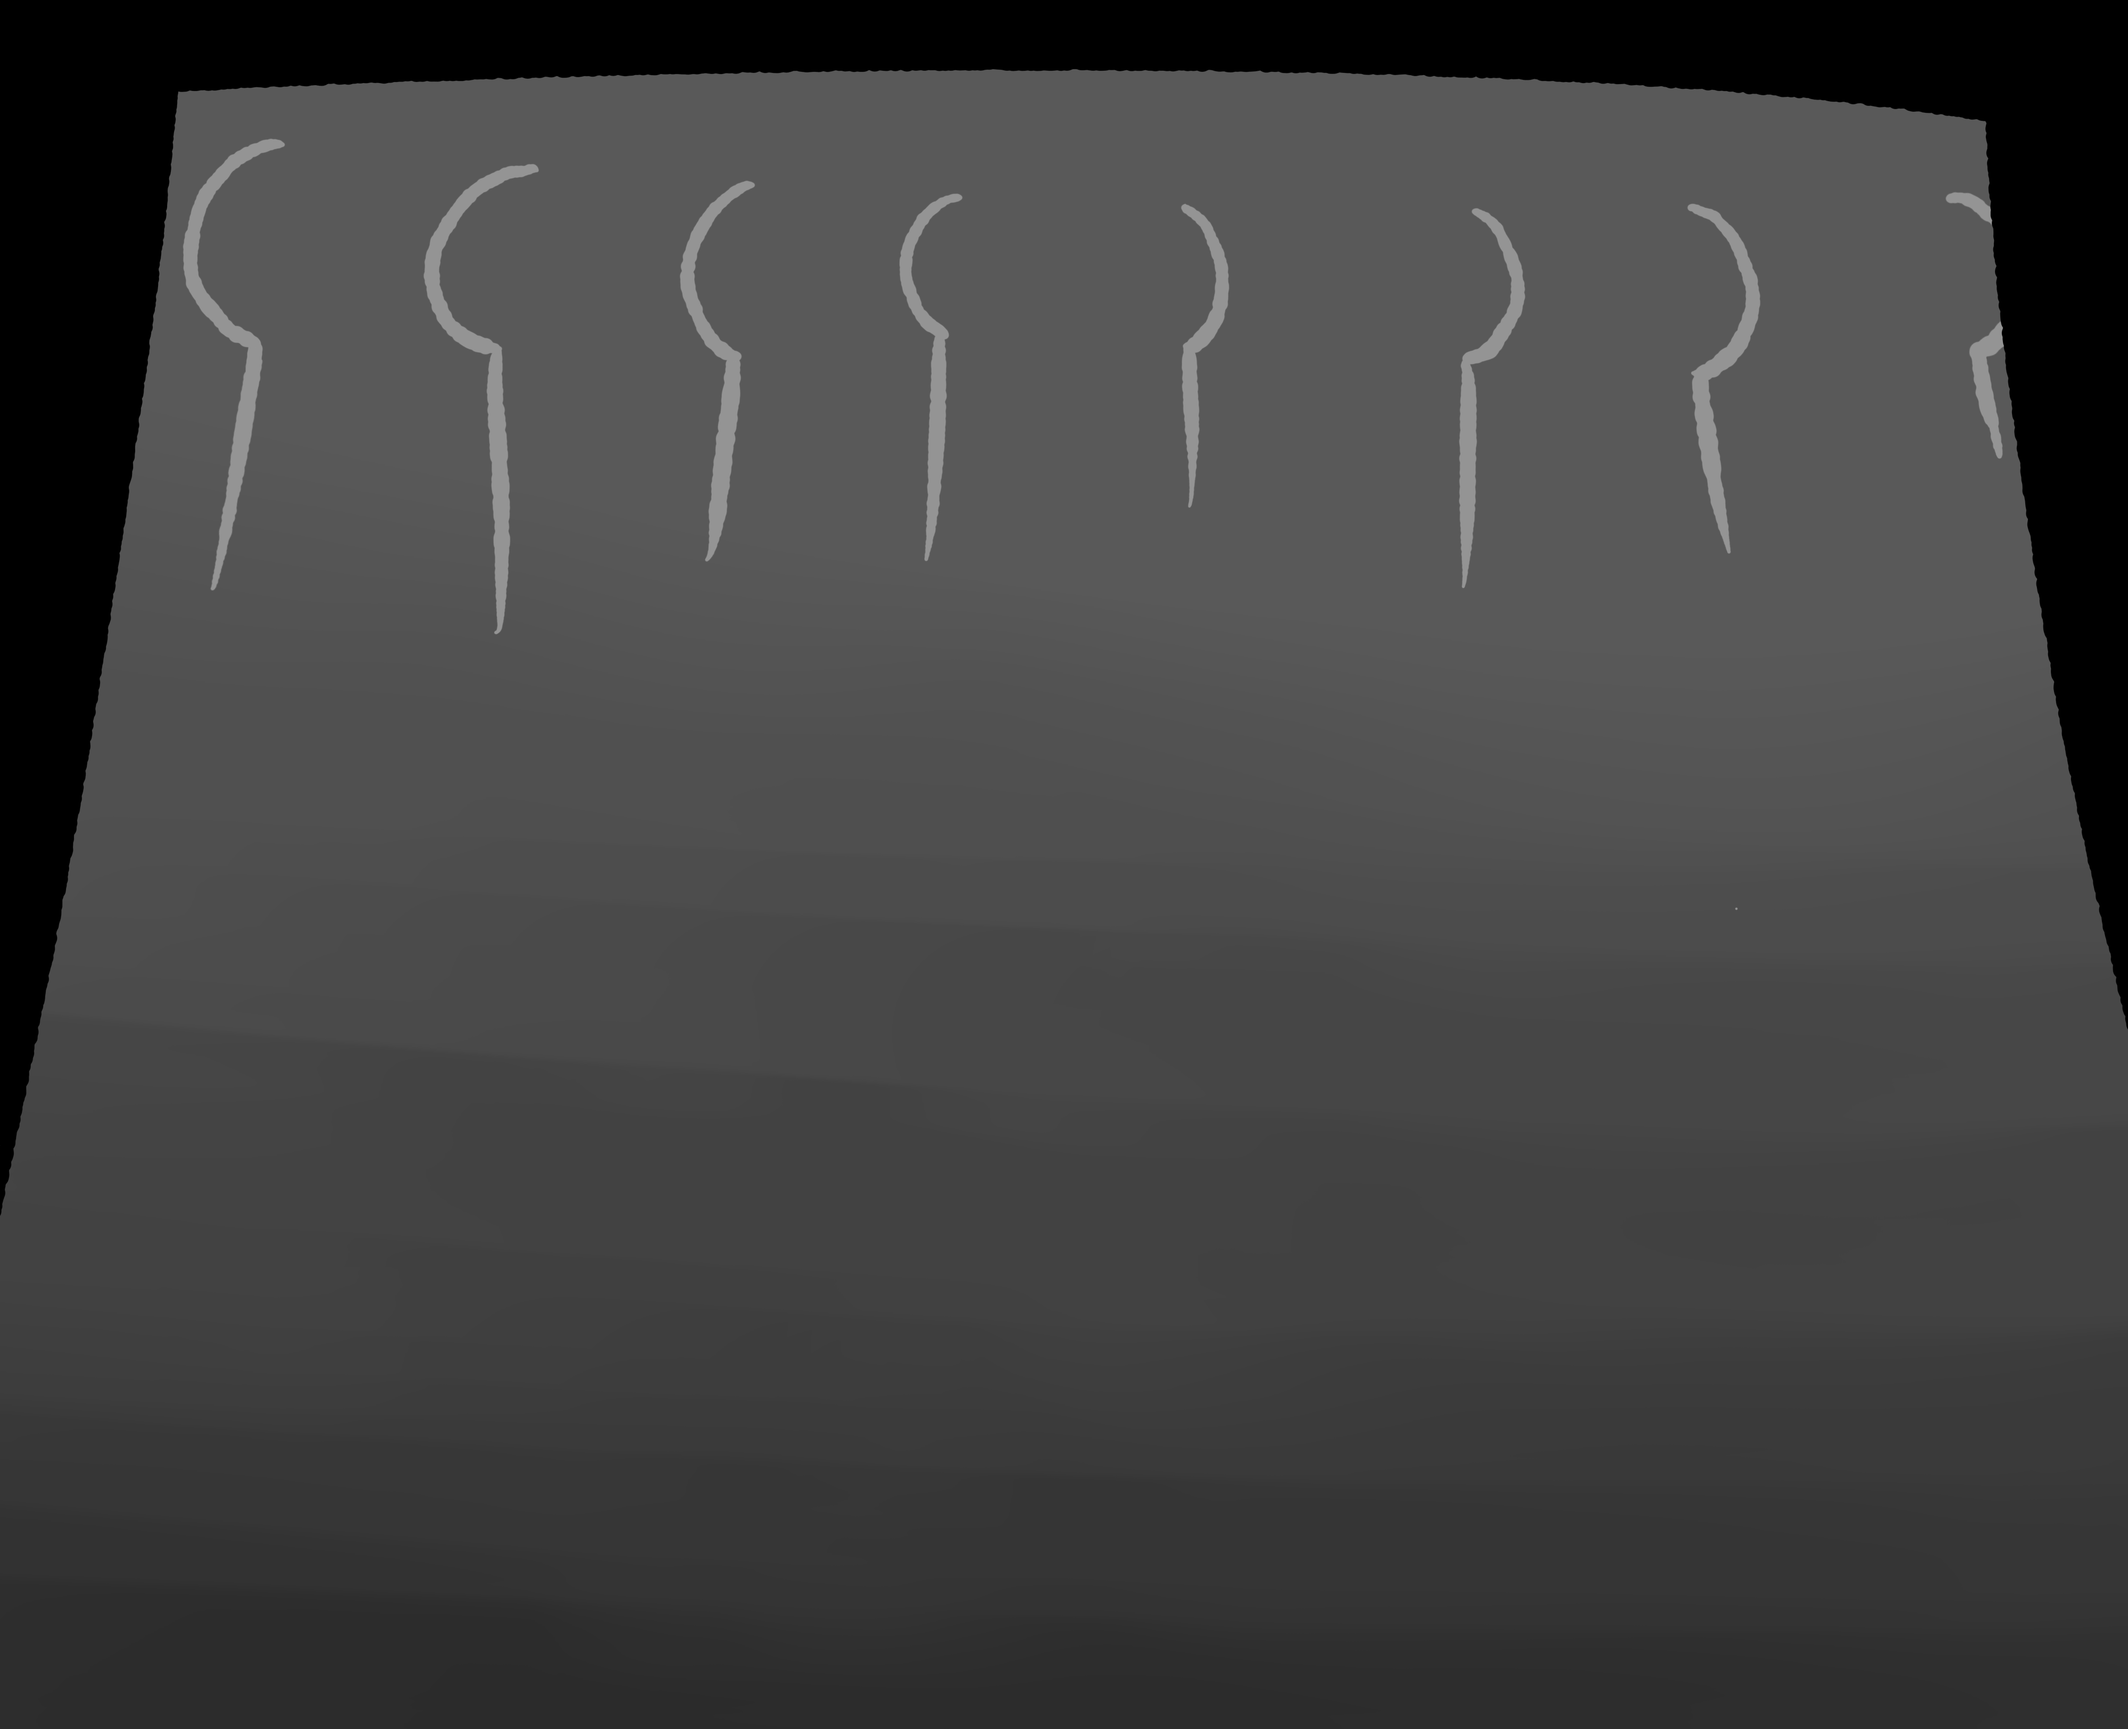
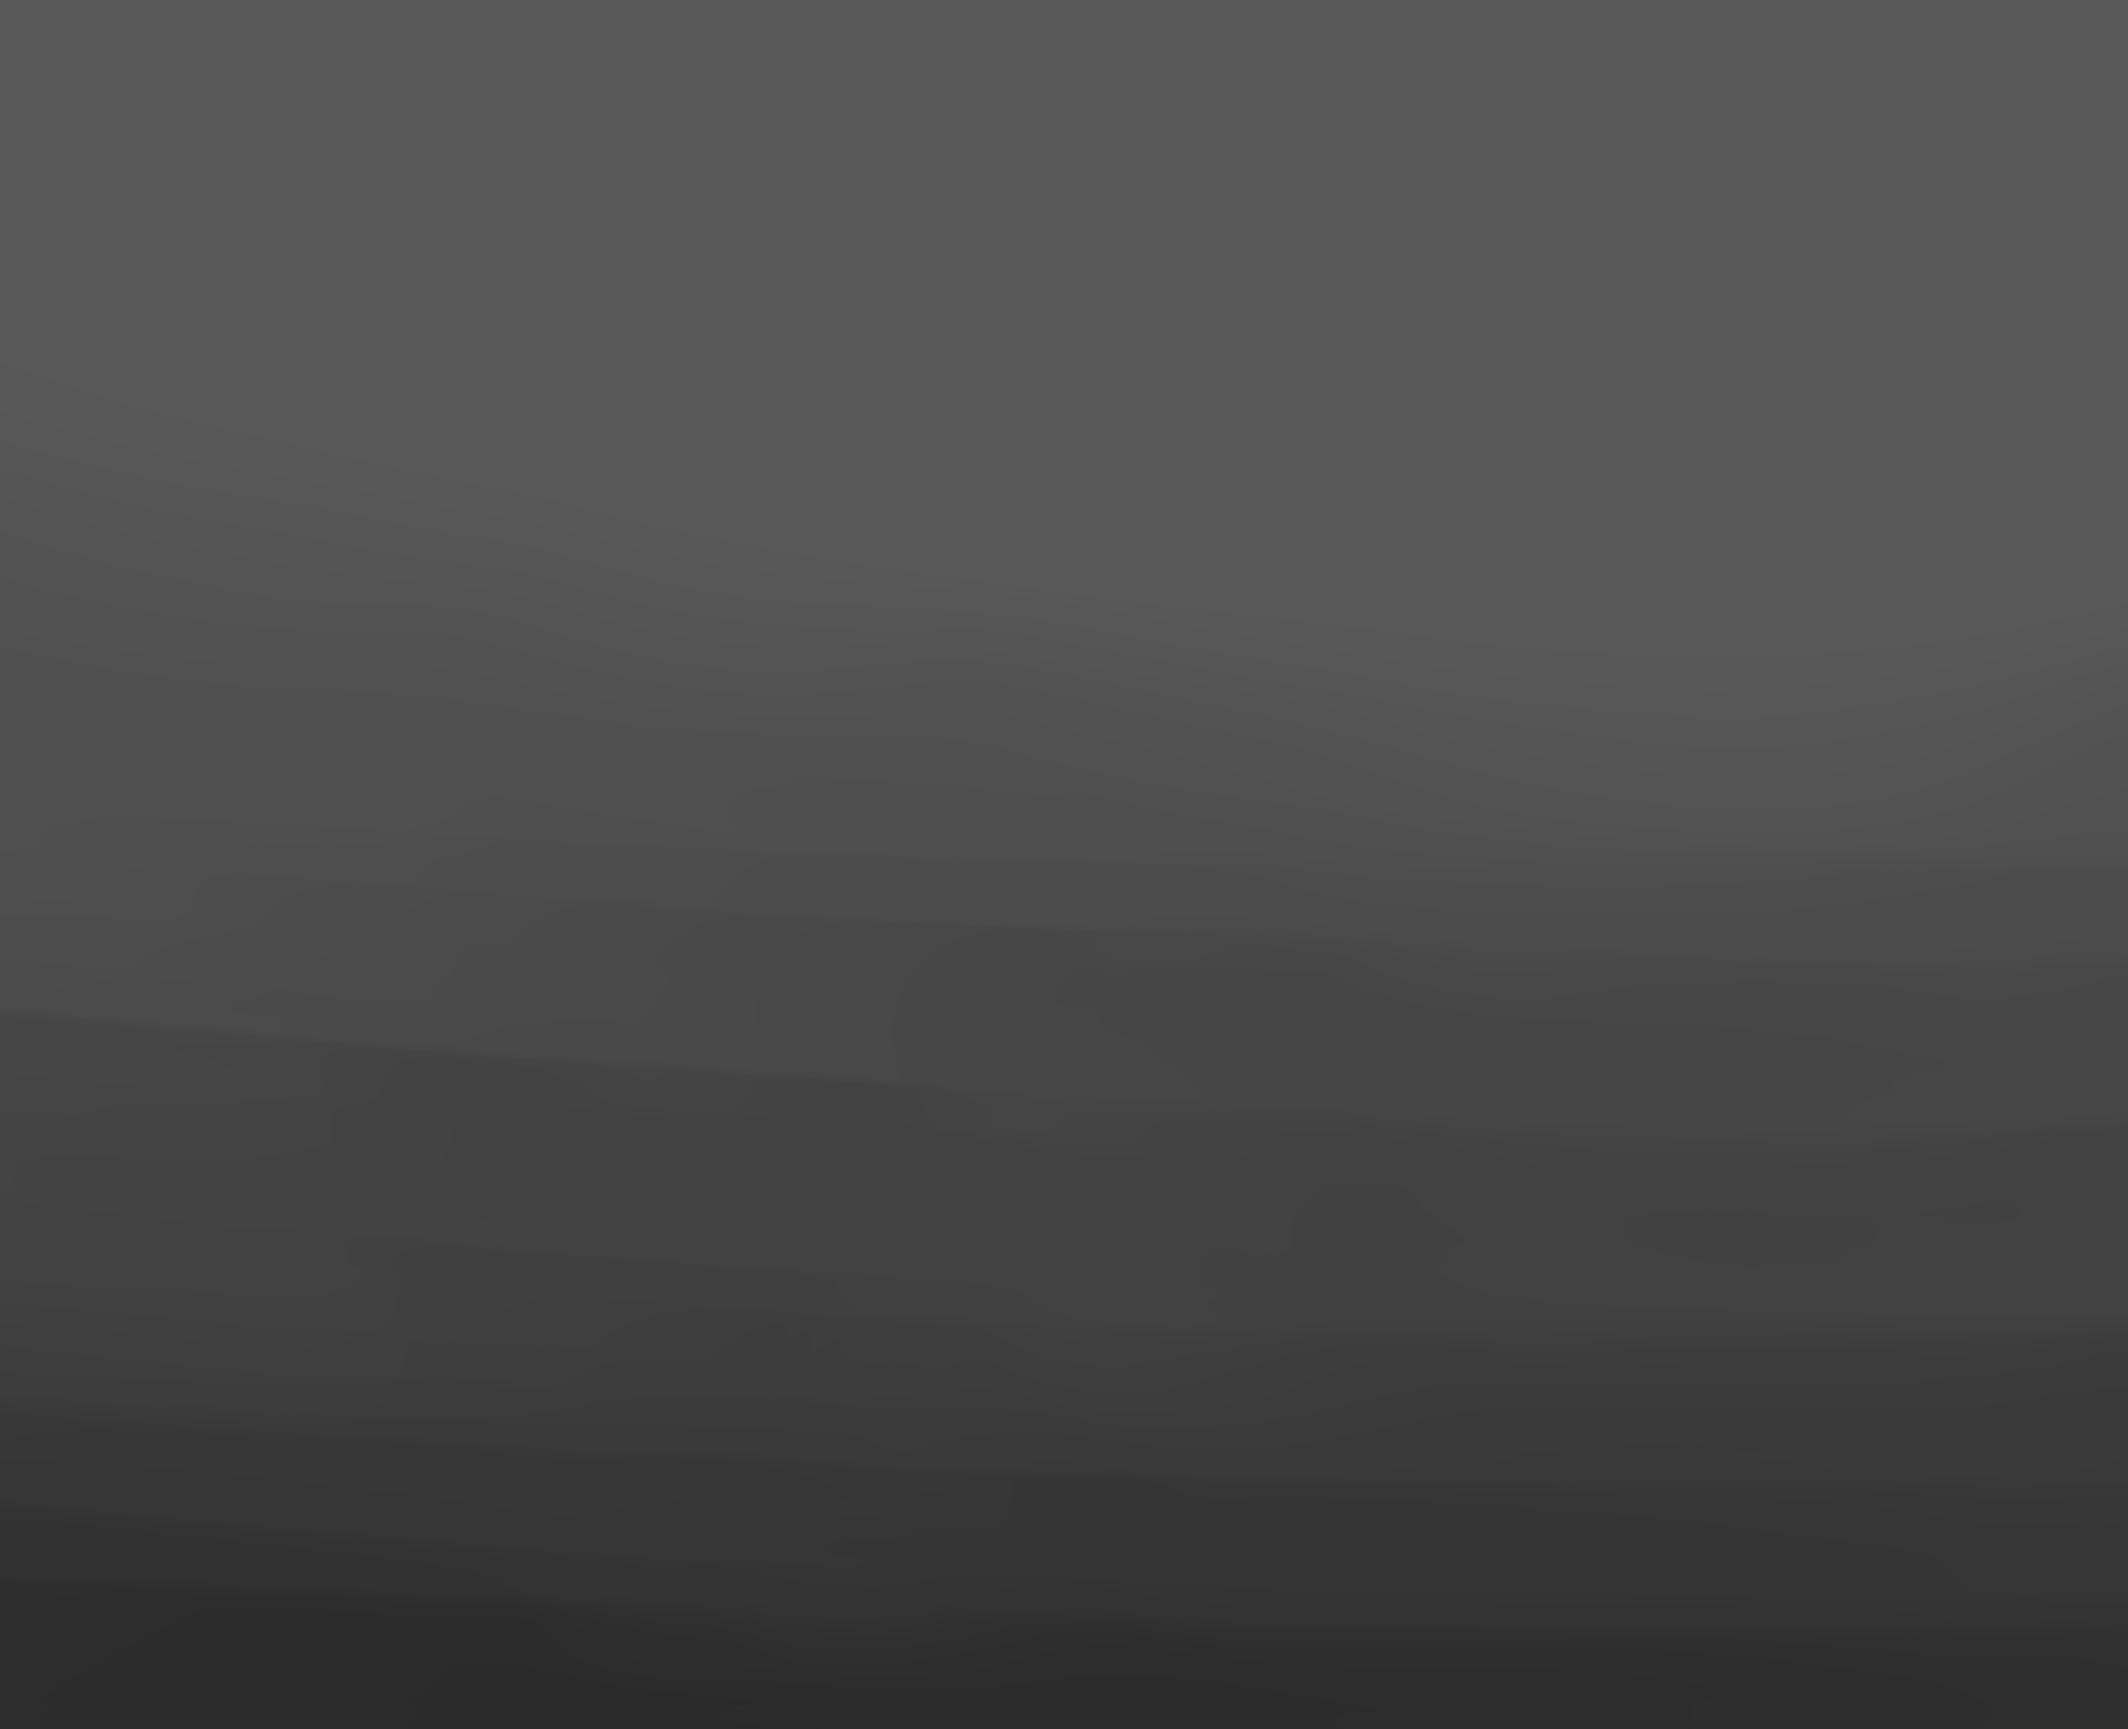
Fixed interactable 64 aka page 65
now i just need to do the blinking animation and then ill move on to chitterchatter time

diff --git a/virtualbound/Backend/Interactable.js b/virtualbound/Backend/Interactable.js
@@ -2,7 +2,7 @@
 // grab text of various indices
 
 // Constants
-const DEBUG_MODE = true;
+const DEBUG_MODE = false;
 const INTERACT_PAGES = [5, 30, 49, 64];
 
 // Globals
@@ -17,12 +17,11 @@ const interactArea = document.querySelector(".interact-area");
 const interactText = document.getElementById("interact-text");
 const interactBG = document.querySelector(".interact-bg");
 
-
 // initial conditions 
 next.hidden = true;
 //previous.hidden = true;
 
-loadInteract64();
+loadInteract5();
 
 // Function
 function nextPageIn() { // goes to next page depending on current page
@@ -198,7 +197,7 @@ function loadInteract49() {
     interactArea.appendChild(coffee);
     interactArea.appendChild(fruitBowl);
 
-    toaster.style.opacity = "0"; // initial - CHANGE TO CONSTANTLY FLASHING
+    toaster.style.opacity = "0"; // initial
     coffee.style.opacity = "0";
     fruitBowl.style.opacity = "0";
 
@@ -238,43 +237,43 @@ function loadInteract64() {
     currInteract = 64;
 
     const sweaters = [];
+    const sweaterConfigs = [
+        { letter: "a", top: "20%", left: "0%", width: "15%", height: "75%" },
+        { letter: "b", top: "20%", left: "15%", width: "14%", height: "75%" },
+        { letter: "c", top: "20%", left: "29%", width: "9%", height: "75%" },
+        { letter: "d", top: "20%", left: "38%", width: "12.5%", height: "75%" },
+        { letter: "e", top: "20%", left: "50.5%", width: "14%", height: "75%" },
+        { letter: "f", top: "20%", left: "64.5%", width: "13%", height: "75%" },
+        { letter: "g", top: "20%", left: "77.5%", width: "11.5%", height: "75%" },
+        { letter: "h", top: "20%", left: "89%", width: "11%", height: "75%" }
+    ];
 
     let basePath = "./Images/id_65_img/65"; // can be a - h 
     let fileType = ".png" // append after specifier
 
     interactBG.src = "./Images/id_65_img/65_background.png";
 
-    // iterate through 65a to 65h by editing the sweaterPaths string
-    const sweaterA = document.createElement("img");
-    sweaterA.src = "./Images/id_65_img/65a.png";
-    sweaterA.classList.add("interact-parts", "sweater");
-
     // iteration for all 8 sweater images, all will have the sweater class
-    for (let i = 0; i < 8; i++) {
-        const letter = String.fromCharCode(97+i); // a to h
-
+    sweaterConfigs.forEach((config, i) => {
         const sweater = document.createElement("img");
-        sweater.src = `${basePath}${letter}${fileType}`; 
+        sweater.src = `${basePath}${config.letter}${fileType}`;
         sweater.classList.add("interact-parts", "sweater");
         sweater.style.opacity = "0";
 
-        sweater.dataset.choice = letter;
-        sweater.dataset.index = i;
-
-        sweater.addEventListener("mousedown", handleSweaterClick); // this seems to be for the image, we need to reorient this to be for each hitbox rather than the image
+        sweater.dataset.choice = config.letter;
 
         interactArea.appendChild(sweater);
         sweaters.push(sweater);
 
-        // buildHitbox({
-        //     top: `${10 + i * 8}%`, // adjust positioning per sweater
-        //     left: "30%",
-        //     width: "20%",
-        //     height: "8%",
-        //     onEnter: () => sweater.style.opacity = "1",
-        //     onLeave: () => sweater.style.opacity = "0"
-        // });
-    }
+        buildHitbox({
+            top: config.top,
+            left: config.left,
+            width: config.width,
+            height: config.height,
+            onEnter: () => sweater.style.opacity = "1",
+            onLeave: () => sweater.style.opacity = "0"
+        });
+    });
 
     const foreground = document.createElement("img");
     foreground.src = "./Images/id_65_img/65_foreground.png";
@@ -287,28 +286,28 @@ function handleSweaterClick(theEvent) { // implement later
     const choice = theEvent.currentTarget.dataset.choice;
 
     switch(choice) {
-        case a: 
+        case "a": 
             // go to index 65 (different html)
             break;
-        case b: 
+        case "b": 
             // go to index 66 (different html)
             break;
-        case c: 
+        case "c": 
             // go to index 67 (different html) 
             break;
-        case d: 
+        case "d": 
             // go to index 68 (different html)
             break;
-        case e: 
+        case "e": 
             // go to index 69 (different html)
             break;
-        case f: 
+        case "f": 
             // go to ndex 70 (different html)
             break;
-        case g: 
+        case "g": 
             // go to index 71 (different html)
             break;
-        case h: 
+        case "h": 
             // go to index 72 (different html)
             break;
     }
